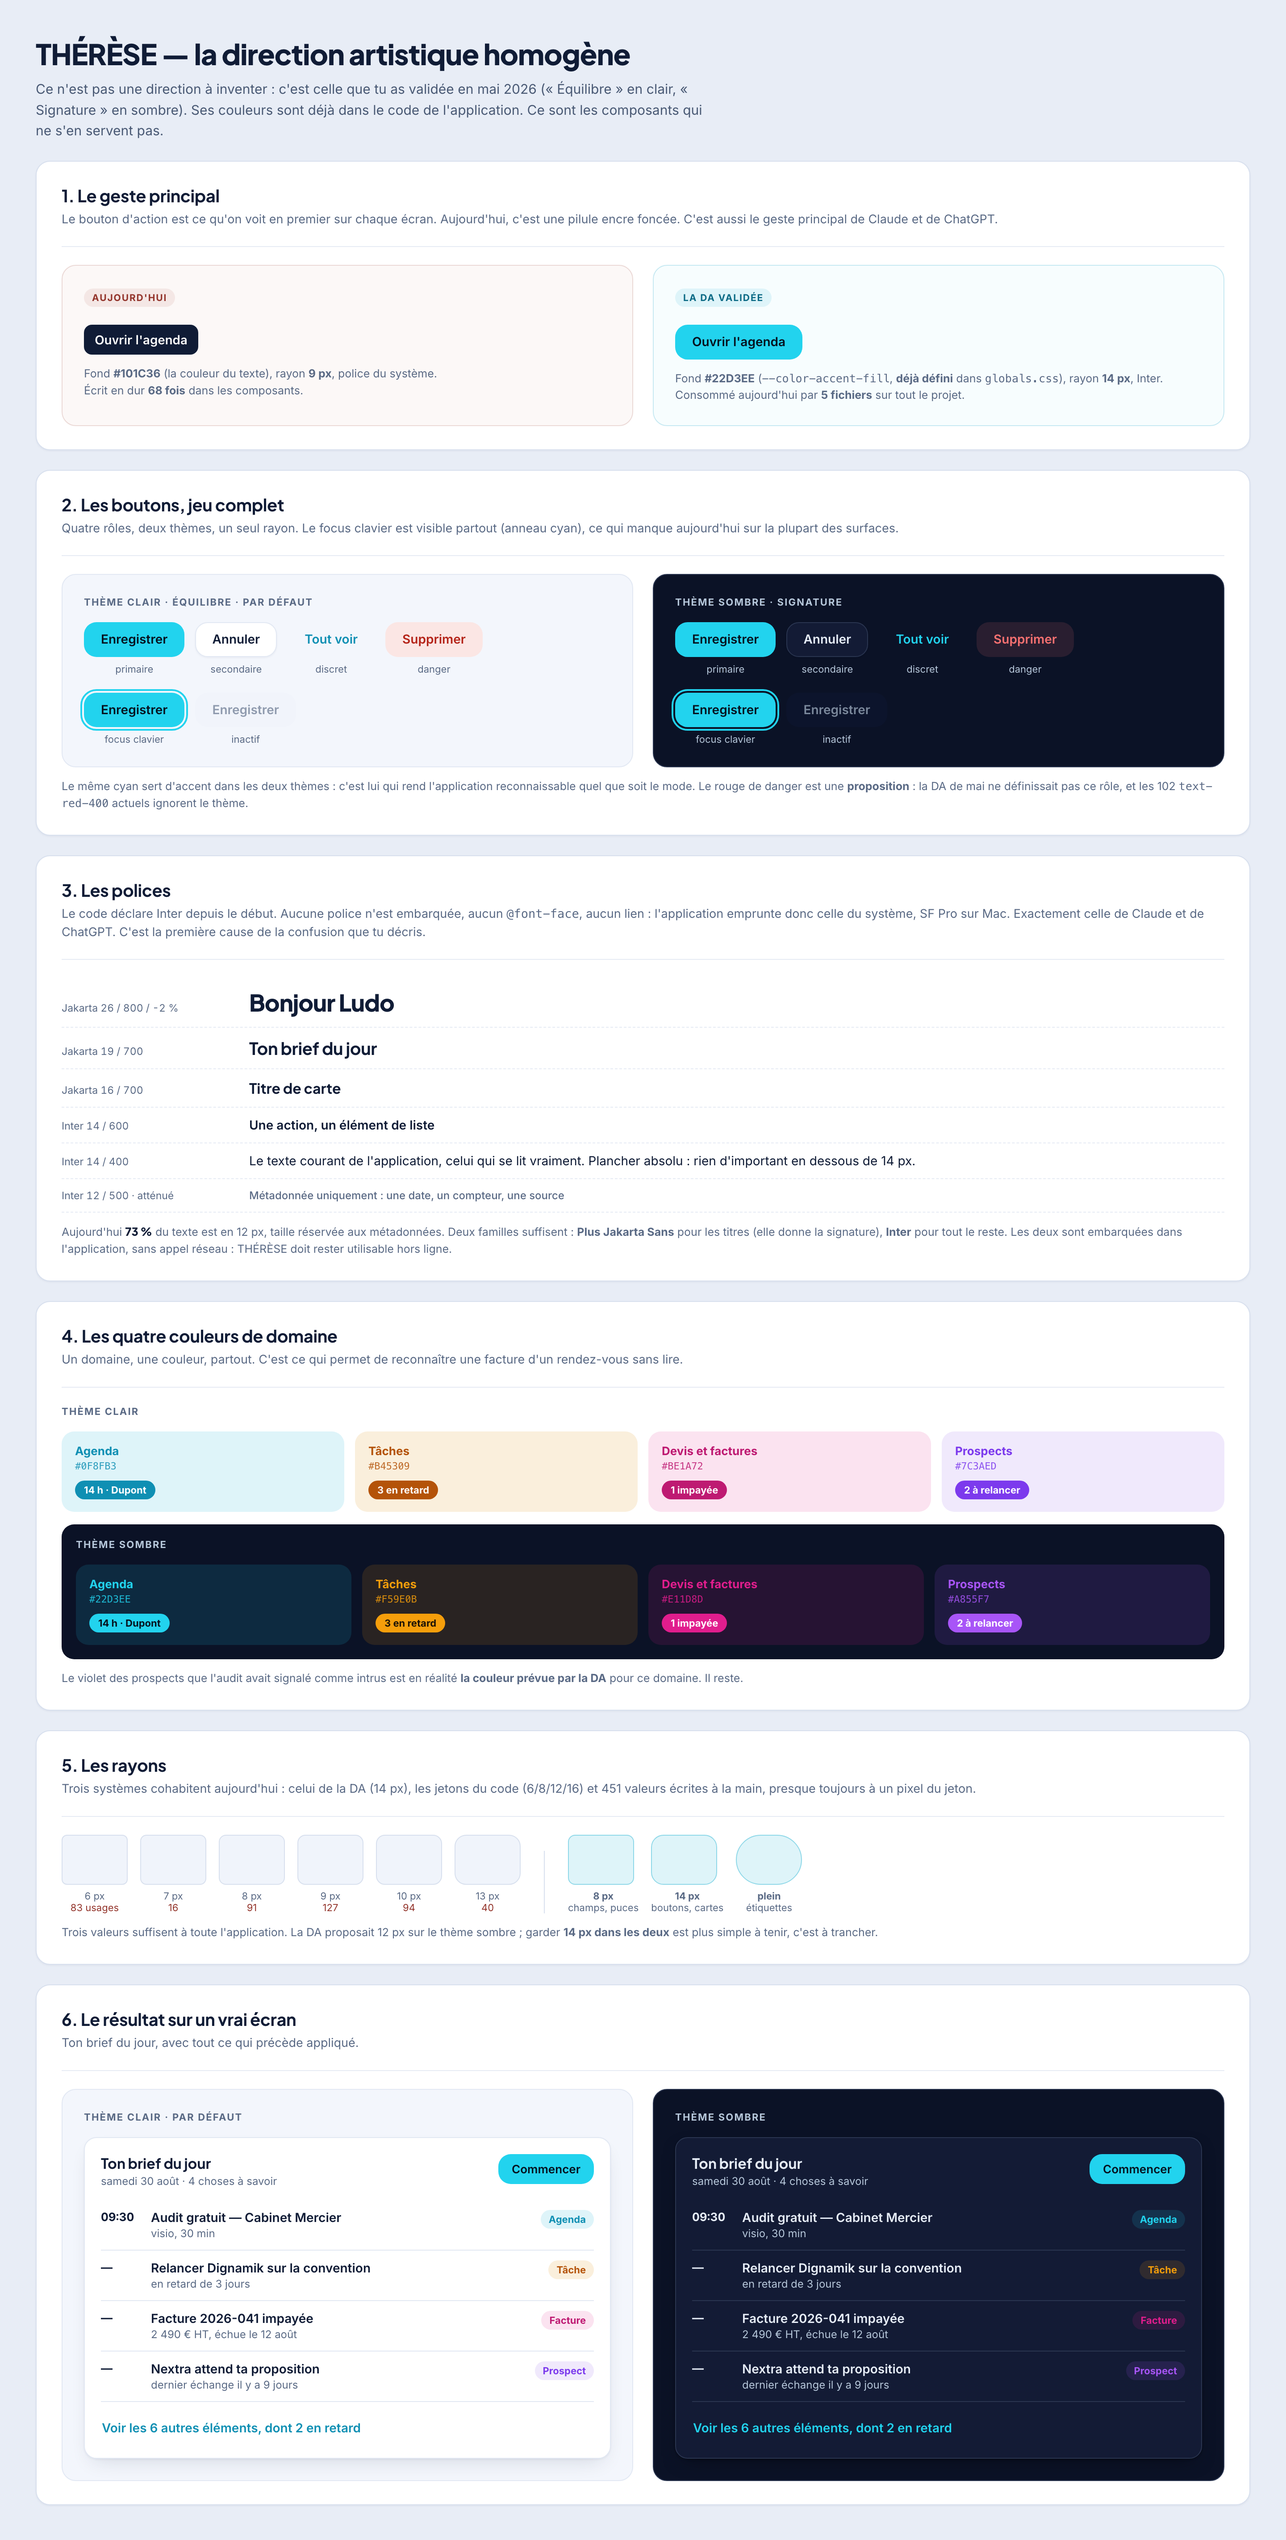
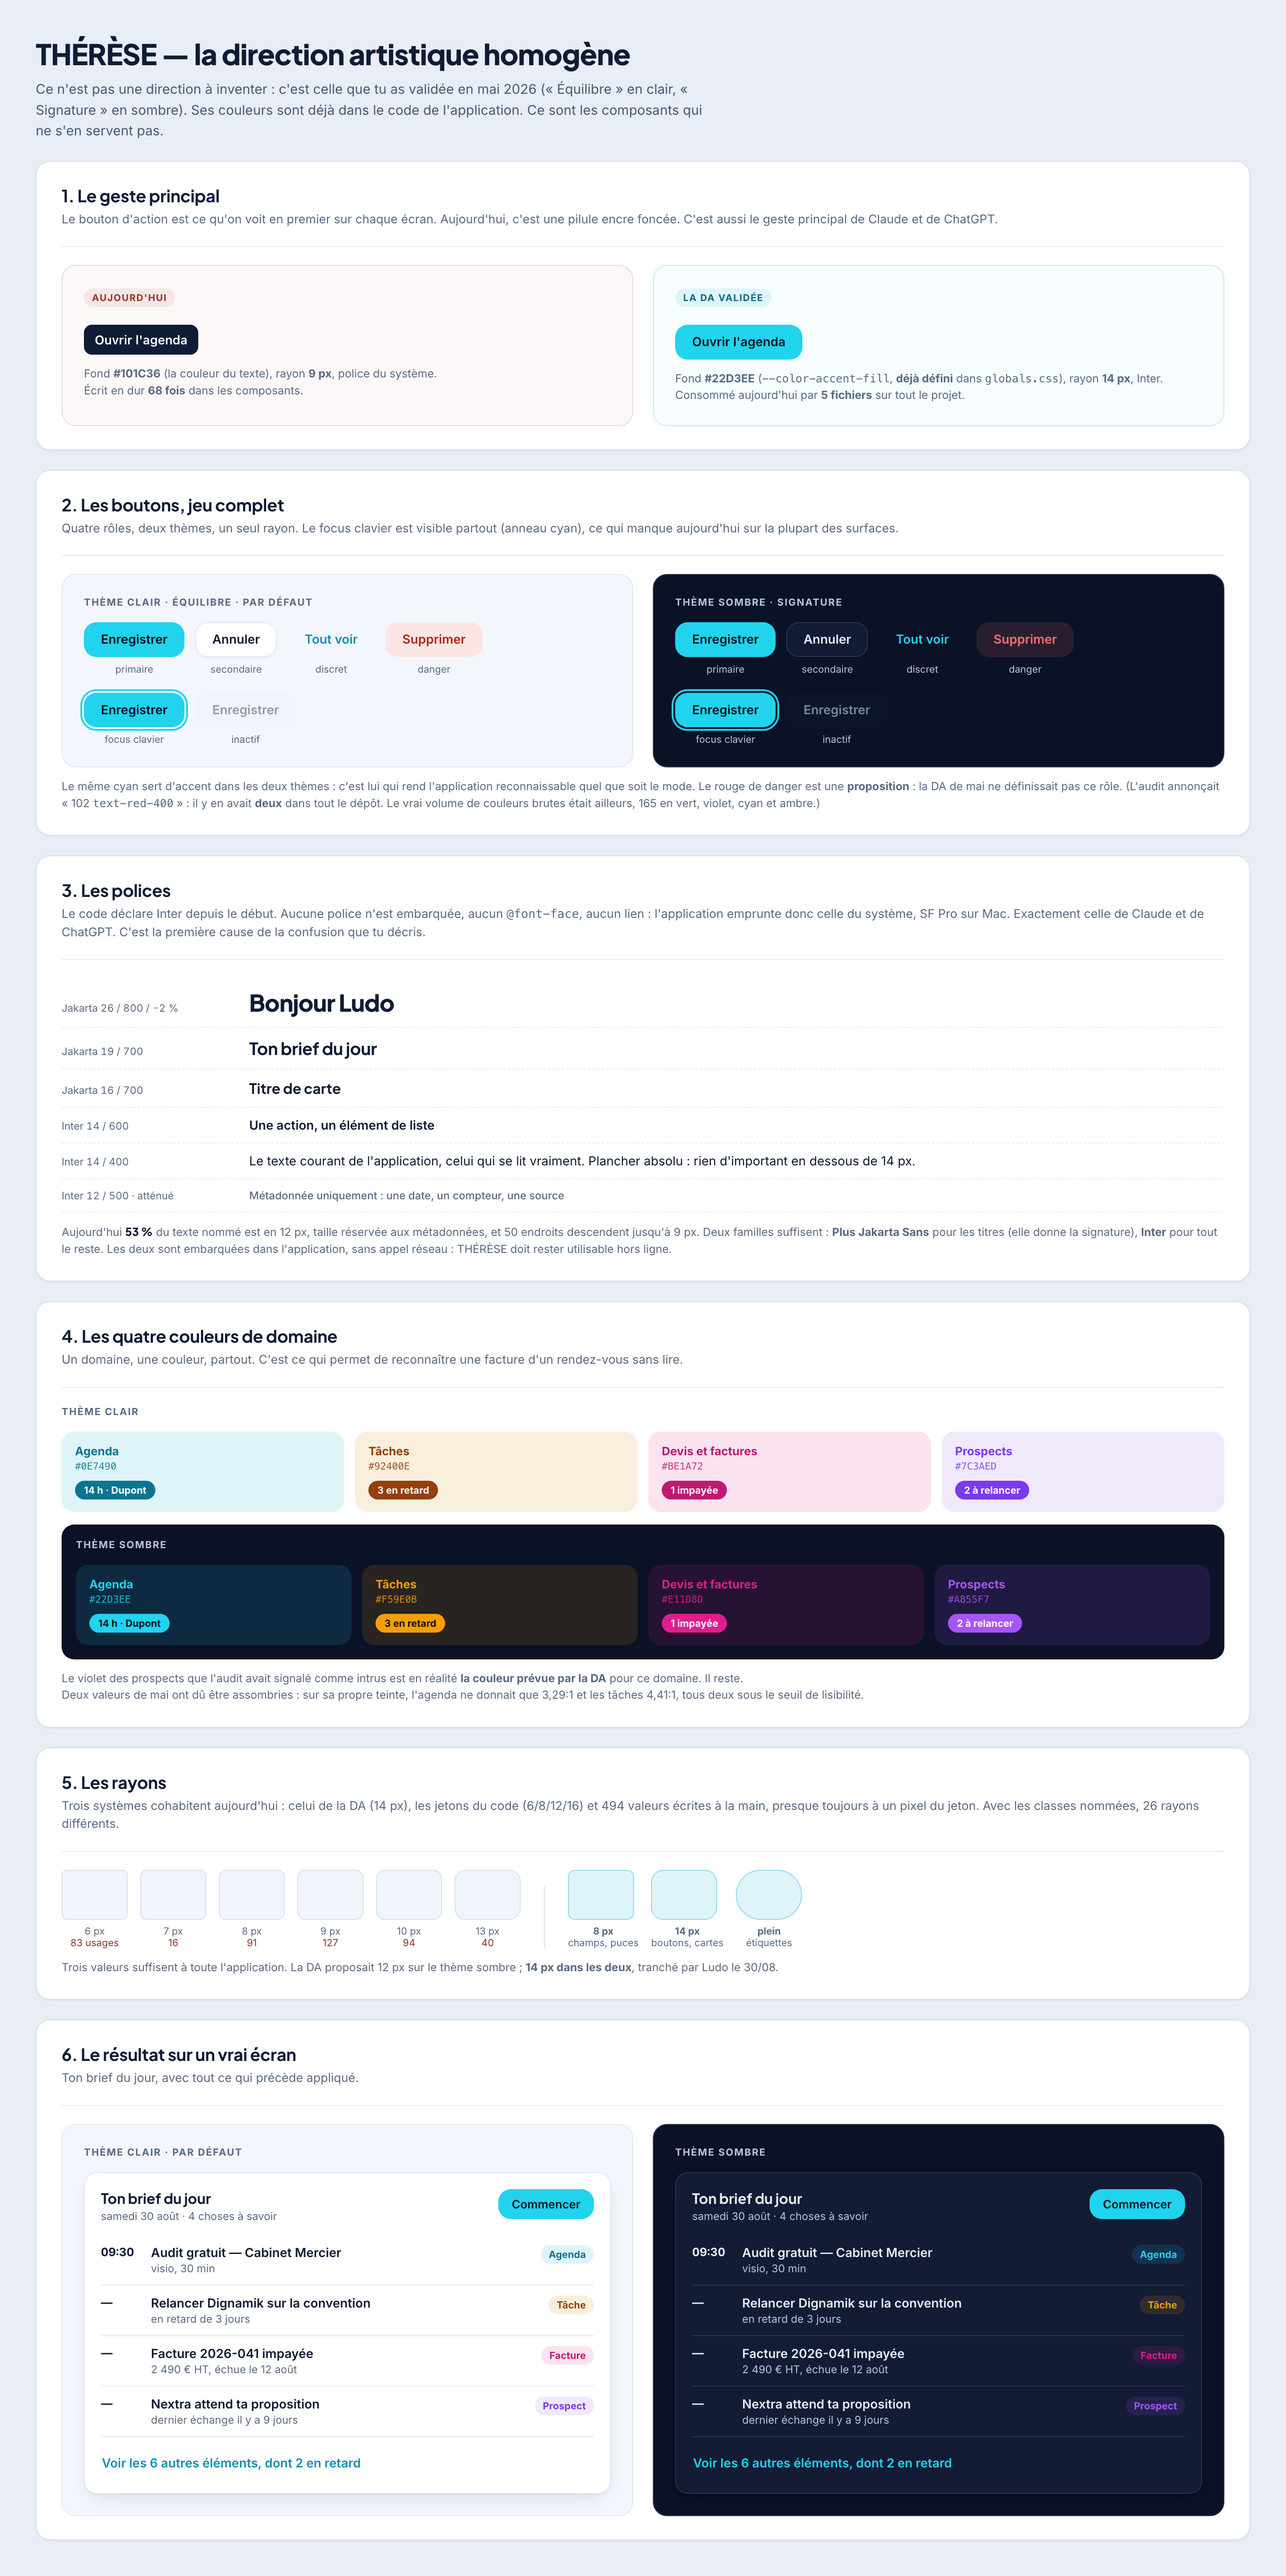
docs(da): corriger la planche et le plan (chiffre 102 faux, k1 et k2 assombris)
L'audit annoncait 102 text-red-400 : il y en avait deux. Le volume reel etait
165 couleurs brutes en vert, violet, cyan et ambre. Deux couleurs de domaine
de la DA de mai ont du etre assombries pour passer AA sur leur propre teinte.

diff --git a/docs/audits/2026-08-30-planche-da.html b/docs/audits/2026-08-30-planche-da.html
@@ -10,7 +10,7 @@ body{font-family:'Inter',system-ui,sans-serif;background:#E8EDF6;color:#101C36;-
 /* ---- themes ---- */
 .clair{--bg:#F3F6FC;--surface:#FFFFFF;--surface2:#F0F4FB;--border:#E2E8F3;--ink:#101C36;--muted:#5A6A85;
   --accent:#0F8FB3;--fill:#22D3EE;--onfill:#06121F;--tint:#DEF4F9;--ring:#22D3EE;
-  --k1:#0F8FB3;--k1bg:#DEF4F9;--k2:#B45309;--k2bg:#FAEFDC;--k3:#BE1A72;--k3bg:#FBE3F0;--k4:#7C3AED;--k4bg:#F0E9FC;
+  --k1:#0E7490;--k1bg:#DEF4F9;--k2:#92400E;--k2bg:#FAEFDC;--k3:#BE1A72;--k3bg:#FBE3F0;--k4:#7C3AED;--k4bg:#F0E9FC;
   --danger:#B42318;--dangerbg:#FBE6E4;
   --shadow:0 1px 2px rgba(16,28,54,.05),0 10px 24px -10px rgba(16,28,54,.16)}
 .sombre{--bg:#0B1226;--surface:#131B35;--surface2:#0E1630;--border:#2A3550;--ink:#E6EDF7;--muted:#B6C7DA;
@@ -140,7 +140,7 @@ h1{font-family:'Plus Jakarta Sans',sans-serif;font-size:32px;font-weight:800;let
       </div>
     </div>
   </div>
-  <div class="note">Le même cyan sert d'accent dans les deux thèmes : c'est lui qui rend l'application reconnaissable quel que soit le mode. Le rouge de danger est une <b>proposition</b> : la DA de mai ne définissait pas ce rôle, et les 102 <code>text-red-400</code> actuels ignorent le thème.</div>
+  <div class="note">Le même cyan sert d'accent dans les deux thèmes : c'est lui qui rend l'application reconnaissable quel que soit le mode. Le rouge de danger est une <b>proposition</b> : la DA de mai ne définissait pas ce rôle. (L'audit annonçait « 102 <code>text-red-400</code> » : il y en avait <b>deux</b> dans tout le dépôt. Le vrai volume de couleurs brutes était ailleurs, 165 en vert, violet, cyan et ambre.)</div>
 </div>
 
 <!-- 3 -->
@@ -154,7 +154,7 @@ h1{font-family:'Plus Jakarta Sans',sans-serif;font-size:32px;font-weight:800;let
   <div class="tl"><span class="tspec">Inter 14 / 600</span><span class="t14s">Une action, un élément de liste</span></div>
   <div class="tl"><span class="tspec">Inter 14 / 400</span><span class="t14">Le texte courant de l'application, celui qui se lit vraiment. Plancher absolu : rien d'important en dessous de 14 px.</span></div>
   <div class="tl"><span class="tspec">Inter 12 / 500 · atténué</span><span class="t12">Métadonnée uniquement : une date, un compteur, une source</span></div>
-  <div class="note">Aujourd'hui <b class="chiffre">73 %</b> du texte est en 12&nbsp;px, taille réservée aux métadonnées. Deux familles suffisent : <b>Plus Jakarta Sans</b> pour les titres (elle donne la signature), <b>Inter</b> pour tout le reste. Les deux sont embarquées dans l'application, sans appel réseau : THÉRÈSE doit rester utilisable hors ligne.</div>
+  <div class="note">Aujourd'hui <b class="chiffre">53 %</b> du texte nommé est en 12&nbsp;px, taille réservée aux métadonnées, et 50 endroits descendent jusqu'à 9&nbsp;px. Deux familles suffisent : <b>Plus Jakarta Sans</b> pour les titres (elle donne la signature), <b>Inter</b> pour tout le reste. Les deux sont embarquées dans l'application, sans appel réseau : THÉRÈSE doit rester utilisable hors ligne.</div>
 </div>
 
 <!-- 4 -->
@@ -165,8 +165,8 @@ h1{font-family:'Plus Jakarta Sans',sans-serif;font-size:32px;font-weight:800;let
   <div class="clair" style="margin-bottom:14px">
     <div class="pl" style="color:#5A6A85">Thème clair</div>
     <div class="kgrid">
-      <div class="kc" style="background:var(--k1bg)"><div class="kn" style="color:var(--k1)">Agenda</div><div class="kh" style="color:var(--k1)">#0F8FB3</div><span class="kpuce" style="background:var(--k1);color:#fff">14 h · Dupont</span></div>
-      <div class="kc" style="background:var(--k2bg)"><div class="kn" style="color:var(--k2)">Tâches</div><div class="kh" style="color:var(--k2)">#B45309</div><span class="kpuce" style="background:var(--k2);color:#fff">3 en retard</span></div>
+      <div class="kc" style="background:var(--k1bg)"><div class="kn" style="color:var(--k1)">Agenda</div><div class="kh" style="color:var(--k1)">#0E7490</div><span class="kpuce" style="background:var(--k1);color:#fff">14 h · Dupont</span></div>
+      <div class="kc" style="background:var(--k2bg)"><div class="kn" style="color:var(--k2)">Tâches</div><div class="kh" style="color:var(--k2)">#92400E</div><span class="kpuce" style="background:var(--k2);color:#fff">3 en retard</span></div>
       <div class="kc" style="background:var(--k3bg)"><div class="kn" style="color:var(--k3)">Devis et factures</div><div class="kh" style="color:var(--k3)">#BE1A72</div><span class="kpuce" style="background:var(--k3);color:#fff">1 impayée</span></div>
       <div class="kc" style="background:var(--k4bg)"><div class="kn" style="color:var(--k4)">Prospects</div><div class="kh" style="color:var(--k4)">#7C3AED</div><span class="kpuce" style="background:var(--k4);color:#fff">2 à relancer</span></div>
     </div>
@@ -180,13 +180,13 @@ h1{font-family:'Plus Jakarta Sans',sans-serif;font-size:32px;font-weight:800;let
       <div class="kc" style="background:var(--k4bg)"><div class="kn" style="color:var(--k4)">Prospects</div><div class="kh" style="color:var(--k4)">#A855F7</div><span class="kpuce" style="background:var(--k4);color:#fff">2 à relancer</span></div>
     </div>
   </div>
-  <div class="note">Le violet des prospects que l'audit avait signalé comme intrus est en réalité <b>la couleur prévue par la DA</b> pour ce domaine. Il reste.</div>
+  <div class="note">Le violet des prospects que l'audit avait signalé comme intrus est en réalité <b>la couleur prévue par la DA</b> pour ce domaine. Il reste.<br>Deux valeurs de mai ont dû être assombries : sur sa propre teinte, l'agenda ne donnait que 3,29:1 et les tâches 4,41:1, tous deux sous le seuil de lisibilité.</div>
 </div>
 
 <!-- 5 -->
 <div class="bloc">
   <div class="bt">5. Les rayons</div>
-  <div class="bs">Trois systèmes cohabitent aujourd'hui : celui de la DA (14 px), les jetons du code (6/8/12/16) et 451 valeurs écrites à la main, presque toujours à un pixel du jeton.</div>
+  <div class="bs">Trois systèmes cohabitent aujourd'hui : celui de la DA (14 px), les jetons du code (6/8/12/16) et 494 valeurs écrites à la main, presque toujours à un pixel du jeton. Avec les classes nommées, 26 rayons différents.</div>
   <div class="rule"></div>
   <div class="rrow">
     <div><div class="rb" style="border-radius:6px"></div><div class="rl">6 px<br><span style="color:#93342B">83 usages</span></div></div>
@@ -200,7 +200,7 @@ h1{font-family:'Plus Jakarta Sans',sans-serif;font-size:32px;font-weight:800;let
     <div><div class="rb" style="border-radius:14px;background:#DEF4F9;border-color:#8FD8E8"></div><div class="rl"><b>14 px</b><br>boutons, cartes</div></div>
     <div><div class="rb" style="border-radius:999px;background:#DEF4F9;border-color:#8FD8E8"></div><div class="rl"><b>plein</b><br>étiquettes</div></div>
   </div>
-  <div class="note">Trois valeurs suffisent à toute l'application. La DA proposait 12 px sur le thème sombre ; garder <b>14 px dans les deux</b> est plus simple à tenir, c'est à trancher.</div>
+  <div class="note">Trois valeurs suffisent à toute l'application. La DA proposait 12 px sur le thème sombre ; <b>14 px dans les deux</b>, tranché par Ludo le 30/08.</div>
 </div>
 
 <!-- 6 -->

diff --git a/docs/plans/2026-08-30-plan-coherence-graphique.md b/docs/plans/2026-08-30-plan-coherence-graphique.md
@@ -173,8 +173,16 @@ métadonnées. C'est le lot le plus long et le plus intrusif ; il vient après.
 ### Lot 5 - Les couleurs brutes de domaine
 
 Les quatre couleurs `k1`–`k4` de la DA (agenda, tâches, factures, prospects)
-deviennent des jetons et remplacent les couleurs Tailwind brutes, dont les
-102 `text-red-400` qui ignorent le thème.
+deviennent des jetons et remplacent les couleurs Tailwind brutes.
+
+**Correction due à l'audit** : il annonçait « 102 `text-red-400` ». Il y en a
+**deux** dans tout le dépôt. Le volume réel est ailleurs : **165** couleurs
+Tailwind brutes servent de couleur de texte, en vert, violet, cyan et ambre,
+toutes entre 1,54:1 et 2,44:1 sur le fond clair.
+
+Deux couleurs de la DA ont dû être assombries pour passer AA sur leur propre
+teinte : l'agenda (`#0F8FB3` → `#0E7490`, 3,29 → 4,70) et les tâches
+(`#B45309` → `#92400E`, 4,41 → 6,23).
 
 Correction due : le violet `#7C3AED` signalé comme intrus par l'audit est la
 **couleur de domaine prévue** pour les prospects. Il reste.
